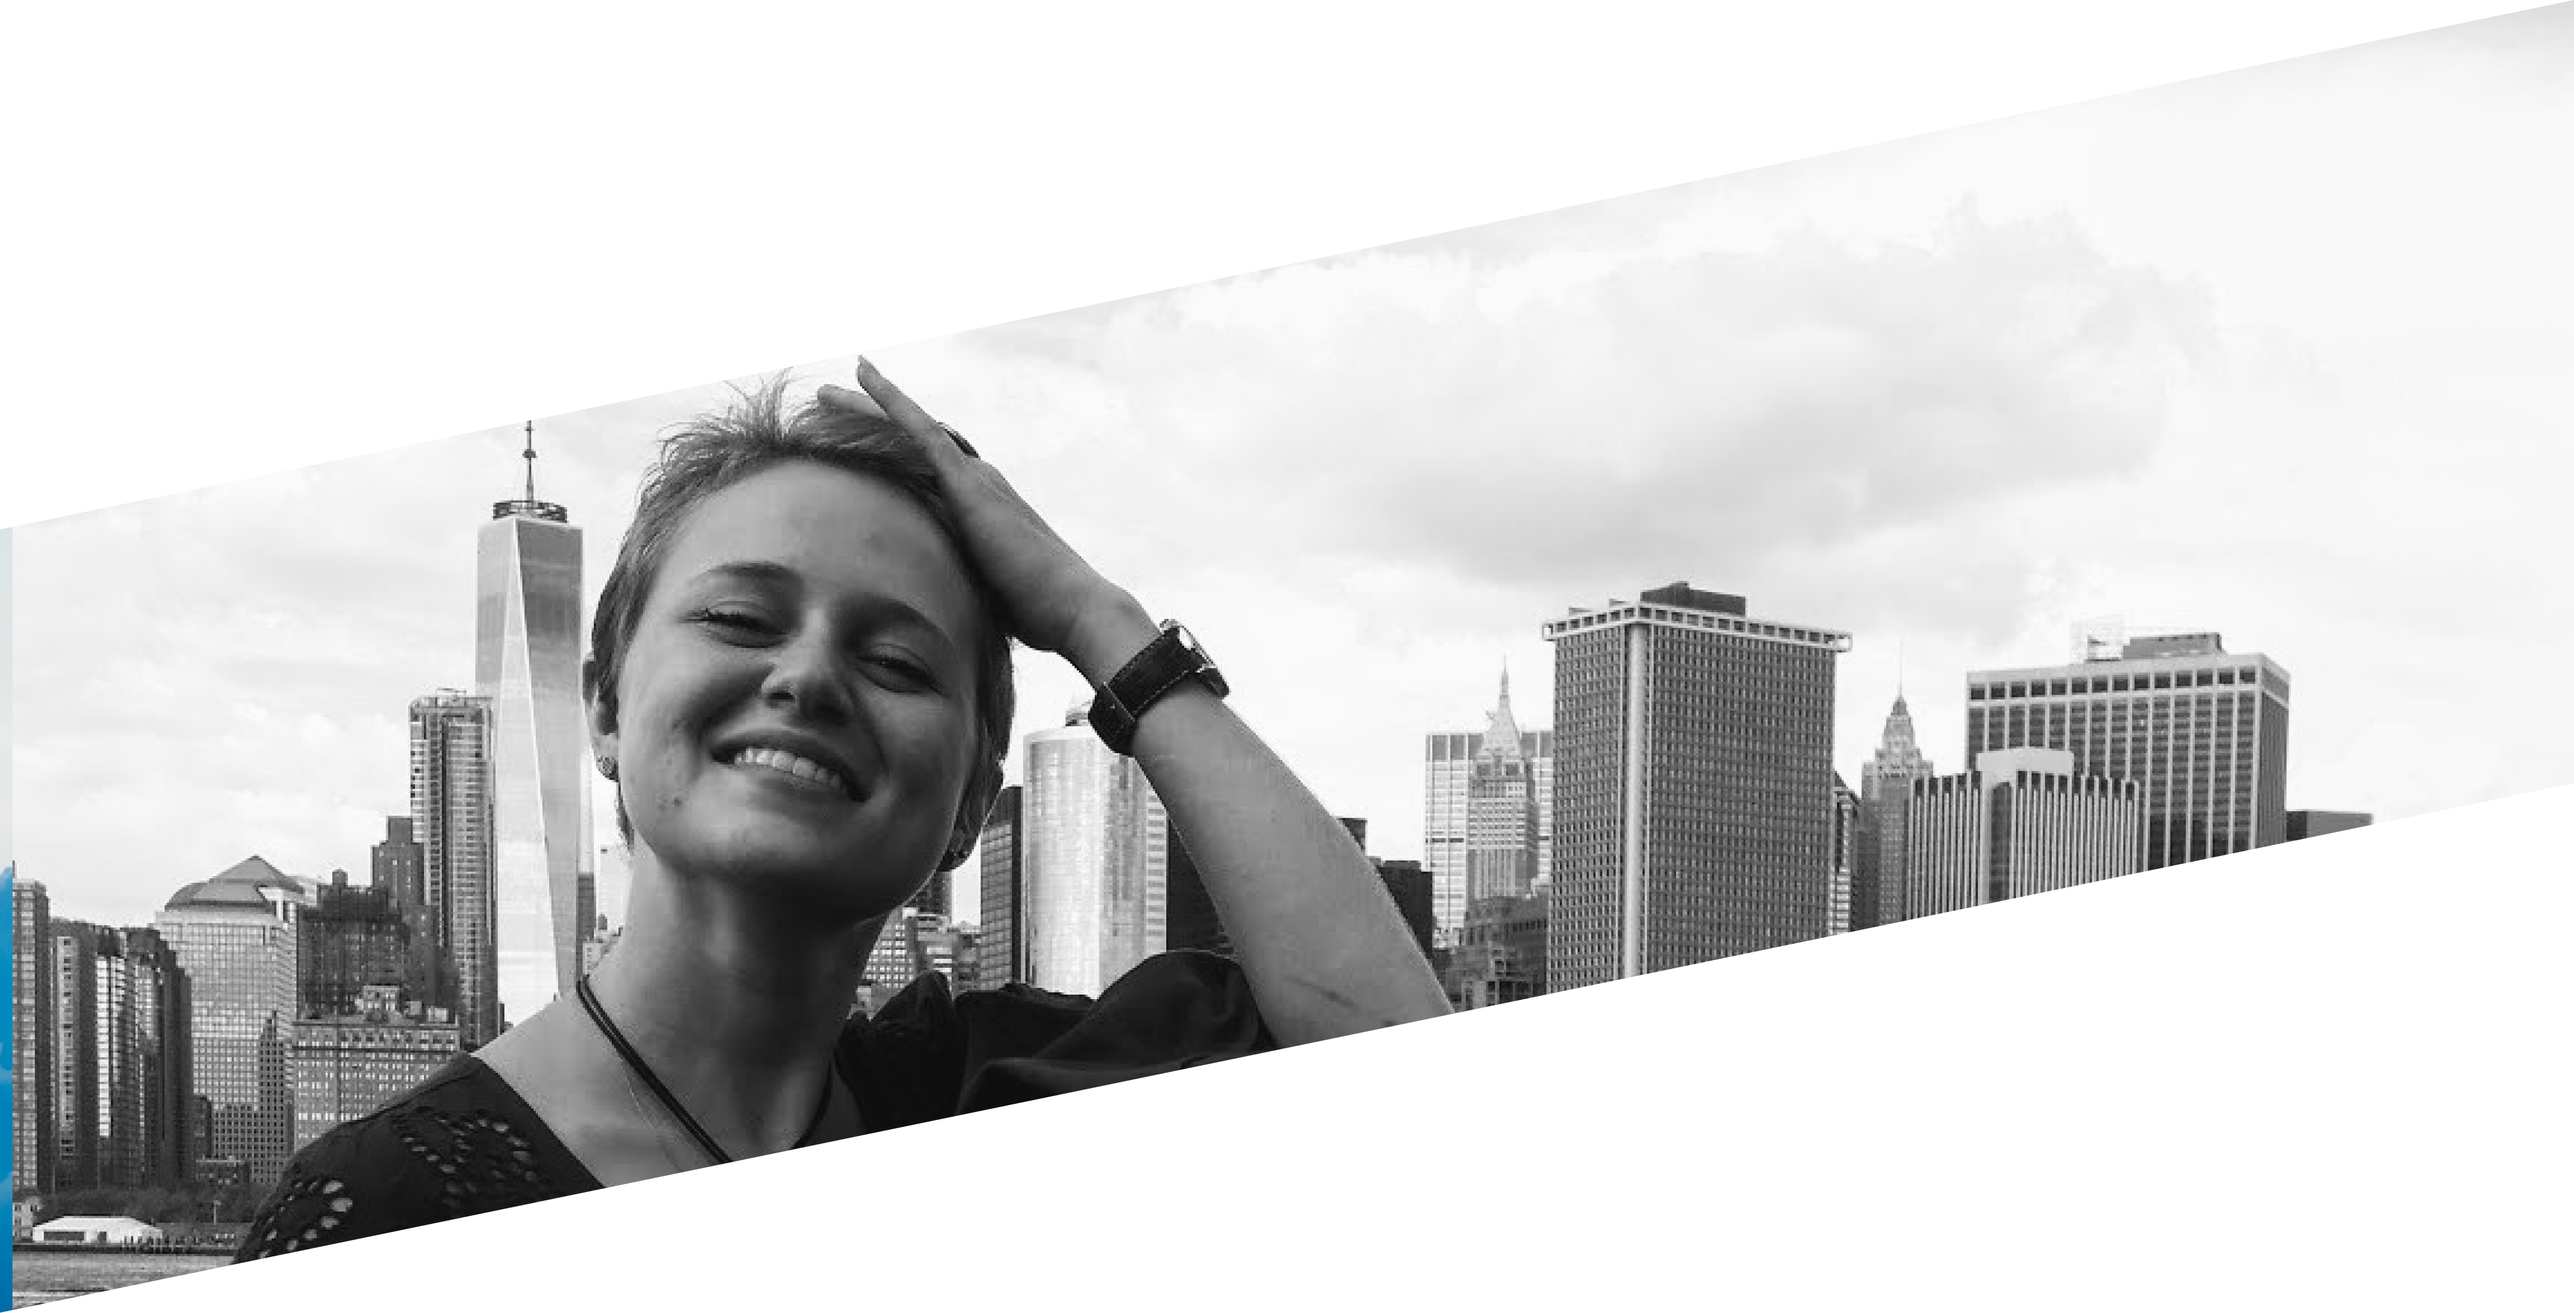
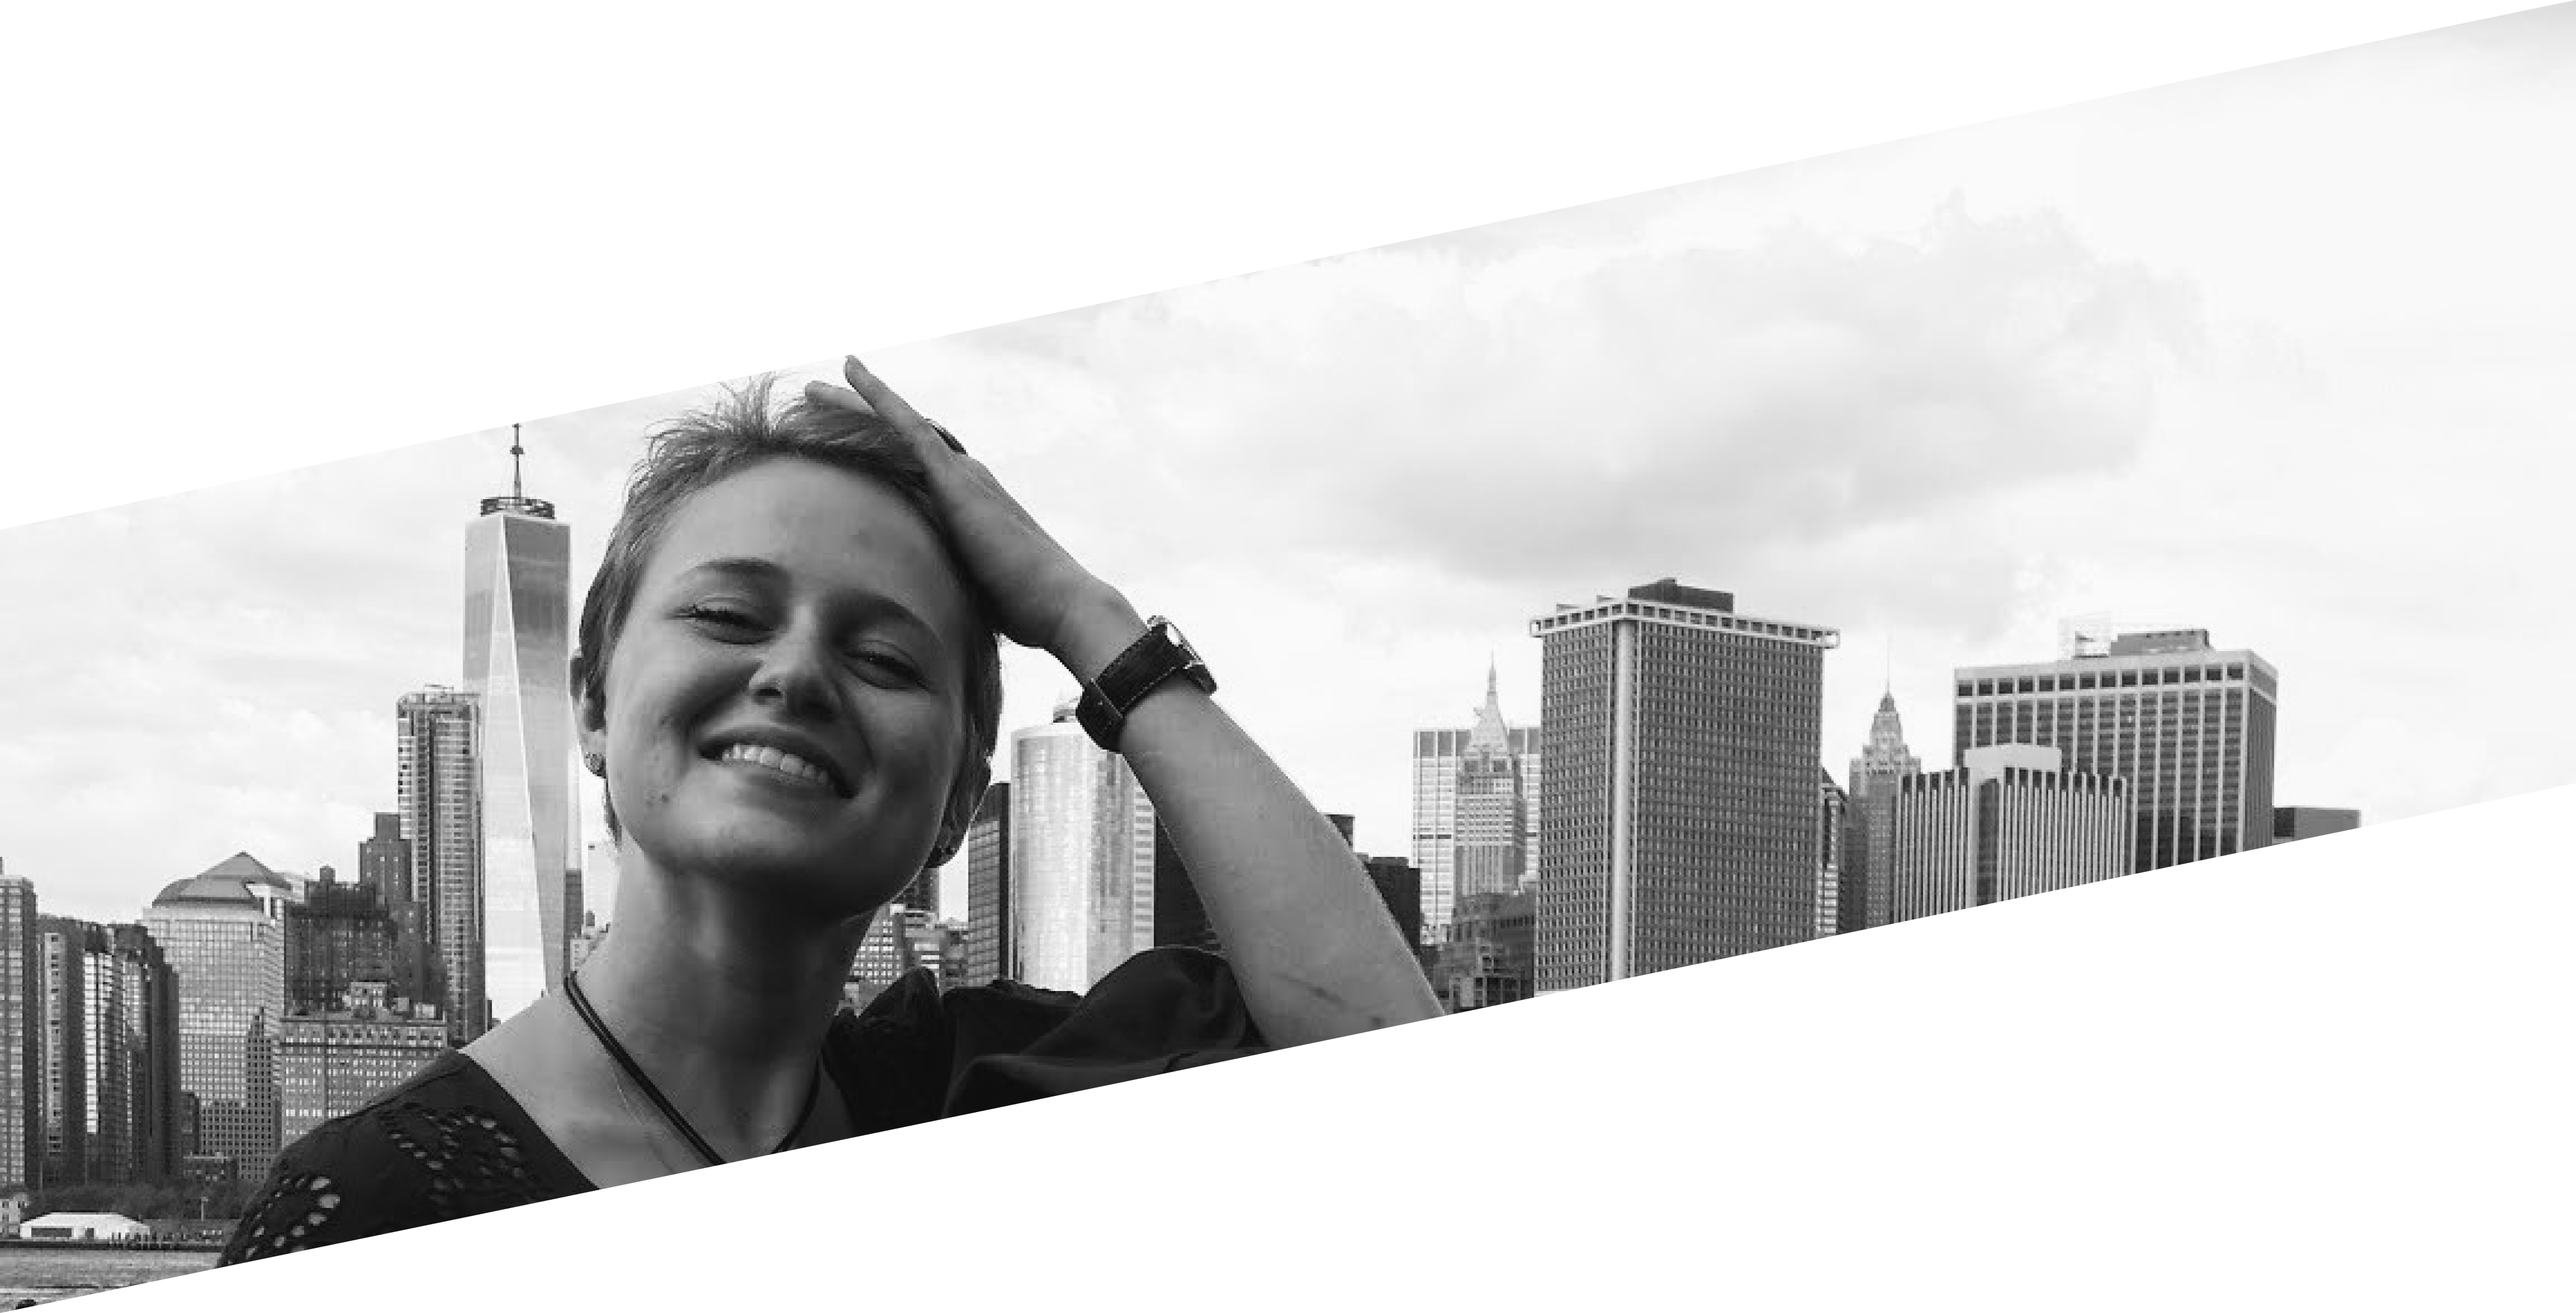
added bottom navigation, not properly responsive yet

Changed region(s): [[0.0, 0.2779, 0.4966, 1.0], [0.4966, 0.4323, 0.9002, 0.772]]

diff --git a/css/style.css b/css/style.css
@@ -63,6 +63,7 @@ p{
   font-weight: 300;
   font-size: 1.6rem;
   line-height: 2.5rem;
+  padding: 1rem 0;
 }
 
 ul{
@@ -75,9 +76,9 @@ ul{
 }
 
 .atmos-container {
-  background-image: url("../css/images/atmos_casestudy_hero.png");
+  background-image: url("../css/images/atmos_herocloud.png");
   background-repeat: no-repeat;
-  background-position: top;
+  background-position: 0px 200px;
   background-size: contain;
   /* background-size: auto; */
   /* background-attachment: fixed; */
@@ -85,6 +86,7 @@ ul{
   grid-template-areas:
   "navbar"
   "hero"
+  "details"
   "overview"
   "user-research"
   "comp-analysis"
@@ -117,6 +119,7 @@ ul{
   display: grid;
   grid-template-areas:
   "bio-hero"
+  "bio-hero-img"
   "bio-body"
   ;
 }
@@ -145,7 +148,13 @@ ul{
   grid-area: hero;
   grid-template-areas:
     "cloud-logo"
-    "intro"
+    "intro";
+}
+.details {
+  display: grid;
+  grid-area: details;
+  grid-template-areas:
+    "description"
     "roles"
     "deliverables"
     "specs"
@@ -345,11 +354,27 @@ ul{
   "goals3";
 }
 
+
+/* about me page */
+
+.bio-hero {
+  display: grid;
+  grid-area: bio-hero;
+  grid-template-areas:
+  "bio-hero-intro";
+}
+
+.bio-hero-img {
+  display: grid;
+  grid-area: bio-hero-img;
+  grid-template-areas:
+  "bio-img";
+}
+
 .bio-body {
   display: grid;
   grid-area: bio-body;
   grid-template-areas:
-  "bio-img"
   "boxes"
   "boxes-img"
   "boxes-text"
@@ -365,16 +390,16 @@ ul{
   "conclusion";
 }
 
-.bio-hero {
+.btm-nav {
+  background-color: #494B56;
   display: grid;
-  grid-area: bio-hero;
+  grid-area: btm-nav;
   grid-template-areas:
-  "bio-hero-intro";
+  "btm-nav-icons";
 }
 
 .navbar {
   grid-area: navbar;
-  padding: 3rem;
   background-color: transparent;
 }
 
@@ -382,12 +407,18 @@ ul{
   grid-area: cloud-logo;
   width: 100%;
   background-color: transparent;
-  padding: 3rem;
+  padding: 0 10rem 3rem 0 ;
 }
 
 .hero-intro {
   grid-area: intro;
   background-color: transparent;
+}
+
+.description {
+  grid-area: description;
+  background-color: transparent;
+  padding: 10rem 0;
 }
 
 .roles {
@@ -807,14 +838,13 @@ ul{
   grid-area: home-bottom-text;
 }
 
+
 /* about me page */
 
-.bio-hero-intro {
-  grid-area: bio-hero-intro;
-}
 .bio-img {
   grid-area: bio-img;
-  width: 100%
+  width: 100%;
+  padding: 5rem 0;
 }
 .boxes {
   grid-area: boxes;
@@ -872,14 +902,48 @@ ul{
   grid-area: coffee-text;
 }
 
+.btm-nav-icons {
+  /* align-self: center;
+  justify-self: center; */
+  grid-area: btm-nav-icons;
+  padding: 1rem 0;
+}
+
+.btmnav-gmail{
+  grid-area: btmnav-gmail;
+  width: 15%;
+  padding: 2rem;
+}
+.btmnav-behance{
+  grid-area: btmnav-behance;
+  width: 15%;
+  padding: 2rem;
+}
+.btmnav-linkedin{
+  grid-area: btmnav-linkedin;
+  width: 15%;
+  padding: 2rem;
+}
+.btmnav-instagram{
+  grid-area: btmnav-instagram;
+  width: 15%;
+  padding: 2rem;
+}
+.btmnav-pinterest{
+  grid-area: btmnav-pinterest;
+  width: 15%;
+  padding: 2rem;
+}
+
 
 @media (min-width: 30rem) {
   .atmos-container {
-    background-image: url("../css/images/atmos_casestudy_hero.png");
+    background-image: url("../css/images/atmos_herocloud.png");
     grid-template-columns: 1fr 2fr 6fr 2fr 1fr;
     grid-template-areas:
-    ". navbar navbar navbar ."
-    ". . hero . ."
+    ". navbar navbar . ."
+    ". hero hero . ."
+    ". . details . ."
     ". . overview . ."
     ". . user-research . ."
     ". comp-analysis comp-analysis comp-analysis ."
@@ -894,7 +958,8 @@ ul{
     ". hifi-mockups-2 hifi-mockups-2 hifi-mockups-2 ."
     ". . preference . ."
     ". final-mockups final-mockups final-mockups ."
-    ". . reflections . .";
+    ". . reflections . ."
+    "btm-nav btm-nav btm-nav btm-nav btm-nav";
     /* margin: 1%; */
   }
   .home-container {
@@ -903,24 +968,32 @@ ul{
     ". title-section"
     ". home-navbar"
     "home-hero home-hero"
-    ". home-bottom-text";
+    ". home-bottom-text"
+    "btm-nav btm-nav";
   }
-
   .bio-container {
-    grid-template-columns: 3fr 6fr 3fr;
+    grid-template-columns: 1fr 2fr 6fr 2fr 1fr;
     grid-template-areas:
-    ". bio-hero ."
-    ". bio-body ."
-    ;
+    ". bio-hero bio-hero . ."
+    "bio-hero-img bio-hero-img bio-hero-img bio-hero-img bio-hero-img"
+    ". . bio-body . ."
+    "btm-nav btm-nav btm-nav btm-nav btm-nav";
   }
   .hero {
     grid-template-columns: 1fr 1fr 1fr;
     grid-template-areas:
-    ". cloud-logo ."
-    "intro intro intro"
+    "cloud-logo . ."
+    "intro intro intro";
+  }
+
+  .details {
+    grid-template-columns: 1fr 1fr 1fr;
+    grid-template-areas:
+    "description description description"
     "roles deliverables specs"
     "main-mockup main-mockup main-mockup"
     "divider divider divider";
+
   }
   .overview {
     grid-template-columns: 1fr 1fr 1fr;
@@ -1051,10 +1124,14 @@ ul{
     "persona-quote3 persona-quote3"
     "frustrations3 goals3"
   }
+  .bio-hero-img {
+    grid-template-columns: 1fr 1fr 1fr;
+    grid-template-areas:
+    "bio-img bio-img bio-img";
+  }
   .bio-body {
     grid-template-columns: 1fr 1fr 1fr;
     grid-template-areas:
-    "bio-img bio-img bio-img"
     "boxes boxes boxes"
     ". boxes-img ."
     "boxes-text boxes-text boxes-text"
@@ -1069,9 +1146,10 @@ ul{
     ". coffee-img ."
     "coffee-text coffee-text coffee-text";
   }
-  .bio-hero {
+
+  .btm-nav {
     grid-template-columns: 1fr 1fr 1fr;
     grid-template-areas:
-    "bio-hero-intro bio-hero-intro bio-hero-intro";
+    ". btm-nav-icons .";
   }
 }

diff --git a/bio.html b/bio.html
@@ -17,23 +17,25 @@
     <div class="bio-container">
 
         <section class="bio-hero">
-          <div class="bio-hero-intro">
+            <p> Work About Blog Contact<p>
             <h1> A bit about me</h1>
-            <h2> Brooklyn born and raised </h2>
-            <h2> Currently I am </h2>
-          </div>
-          <div class="interests">
+            <p> Brooklyn born and raised </p>
+            <p> Currently I am </p>
+        </section>
+          <!-- <div class="interests">
             <a class="active" href="#reading">Reading</a>
             <a href="#listening">Listening to</a>
             <a href="#guided">Guided by</a>
             <a href="#stimulated">Visually stimulated by</a>
             <a href="#striving">Striving for</a>
-          </div>
+          </div> -->
+
+
+        <section class="bio-hero-img">
+          <img class="bio-img" src="css/images/bio-heroimg.png" alt="bio image">
         </section>
 
         <section class="bio-body">
-
-          <img class="bio-img" src="css/images/bio-img.png" alt="bio image">
           <div class="boxes">
             <h2> Part 1: Boxes </h2>
           </div>
@@ -58,7 +60,7 @@
             <p> How is IDEO involved? Well, one of my teachers put on a video about what IDEO does, and I’m thinking, there are places out there that do THAT? Creatively solve problems, all day? This was fantastic news. He proceeded to show a video on Apple’s design principles, and I quote that video to this day (to the dismay of my partner, who’s now fed up with my personal design analysis TED talks). </p>
           </div>
           <div class="bio-quote">
-            <h2> “Insert quote from apple here. Something about if you’re not using it you shouldn’t need to see it.” </h2>
+            <h5> “Insert quote from apple here. Something about if you’re not using it you shouldn’t need to see it.” </h5>
           </div>
           <div class="conclusion">
             <h2> Part 4: Why are you telling me this, Lisa? </h2>

diff --git a/index.html b/index.html
@@ -17,9 +17,9 @@
   <div class="home-container">
 
     <section class="title-section">
+      <p> Work About Blog Contact<p>
       <h1>LISA PESOK</h1>
       <p> UI/UX Designer, keeping it simple in Brooklyn, NY </p>
-      <p> Work About Blog Contact<p>
     </section>
 
     <!-- <div class="home-navbar">
@@ -41,6 +41,16 @@
         <a href="#striving">Striving for</a>
       </div> -->
     </section>
+
+    <section class="btm-nav">
+      <div class="btm-nav-icons">
+        <img class="btmnav-gmail" src="css/images/btmnav-gmail-white.png" alt="btm-nav gmail">
+        <img class="btmnav-behance" src="css/images/btmnav-behance-white.png" alt="btm-nav behance">
+        <img class="btmnav-linkedin" src="css/images/btmnav-linkedin-white.png" alt="btm-nav linkedin">
+        <img class="btmnav-instagram" src="css/images/btmnav-instagram-white.png" alt="btm-nav instagram">
+        <img class="btmnav-pinterest" src="css/images/btmnav-pinterest-white.png" alt="btm-nav pinterest">
+      </div>
+    <section>
 
   </div>
 

diff --git a/atmosphere.html b/atmosphere.html
@@ -26,8 +26,13 @@
       <img class="cloud-logo" src="css/images/atmos_cloudlogo.png" alt="cloud logo">
       <div class="hero-intro">
         <h1> Atmosphere </h1>
-          <h4> Cloud storage platform </h4>
-          <p> Atmosphere aims to fill in the gaps existing in current services on the market, by catering to those that actively create and document, while also giving them an environment to communicate and project manage, making it a reliable and clutter-free partner in crime. </p>
+        <p> Cloud storage platform </p>
+      </div>
+    </section>
+
+    <section class="details">
+      <div class="description">
+            <p> Atmosphere aims to fill in the gaps existing in current services on the market, by catering to those that actively create and document, while also giving them an environment to communicate and project manage, making it a reliable and clutter-free partner in crime. </p>
       </div>
       <div class="roles">
         <h4> Design Roles </h4>
